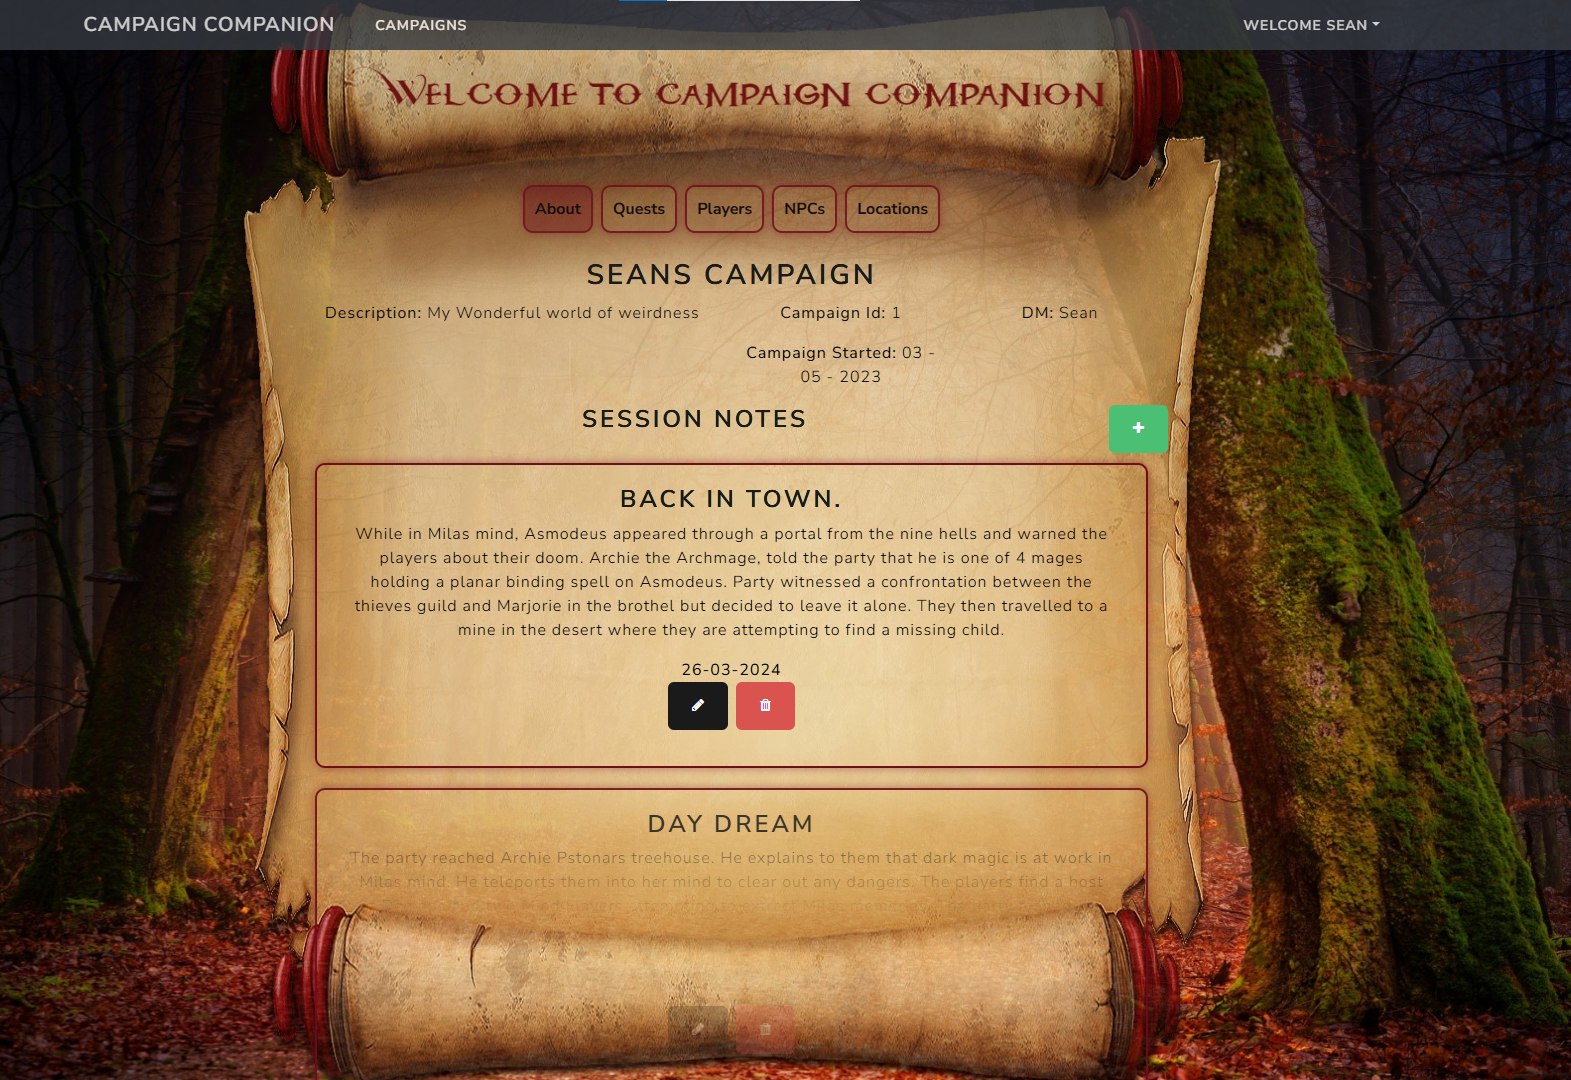
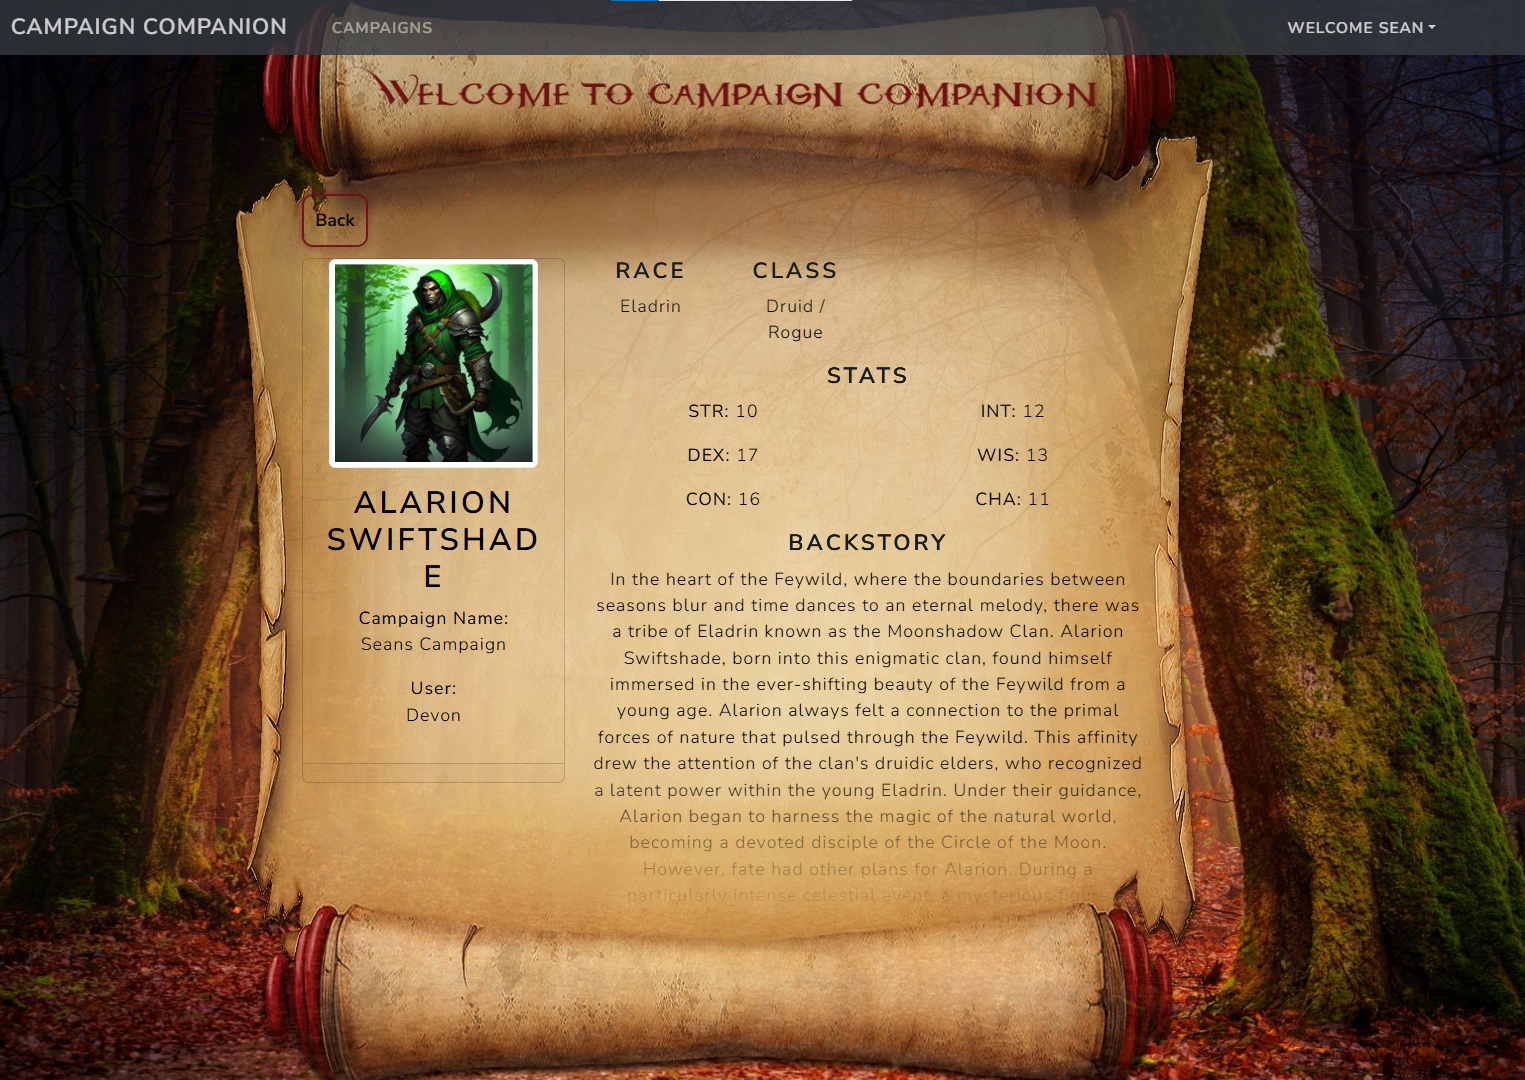
fixed up project

diff --git a/index.html b/index.html
@@ -80,19 +80,19 @@
                 <div class="mySlides2 fade">
                     <div class="numbertext">1 / 3</div>
                     <img src="./images/CampaignCompanion.png" style="width:100%">
-                    <div class="text">Plan Screen</div>
+                    <div class="text">Campaign Screen</div>
                 </div>
 
                 <div class="mySlides2 fade">
                     <div class="numbertext">2 / 3</div>
                     <img src="./images/CampaignCompanion_players.png" style="width:100%">
-                    <div class="text">Country Details/To-Do's</div>
+                    <div class="text">Player Character Details (imported from DnD Beyond)</div>
                 </div>
 
                 <div class="mySlides2 fade">
                     <div class="numbertext">3 / 3</div>
                     <img src="./images/CampaignCompanion_quests.png" style="width:100%">
-                    <div class="text">Map that tracks your route</div>
+                    <div class="text">List of Active / Completed Quests</div>
                 </div>
 
                 <a class="prev" onclick="plusSlides(-1,1)">❮</a>
